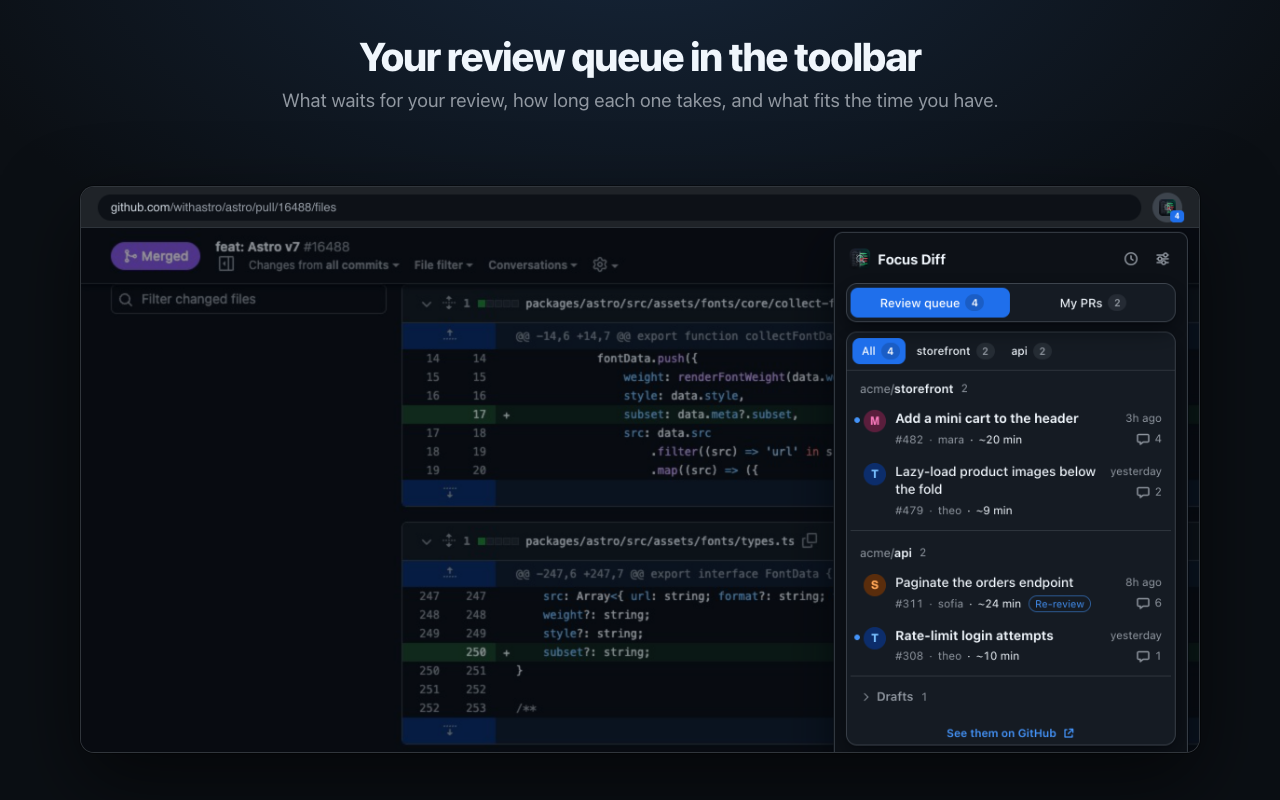
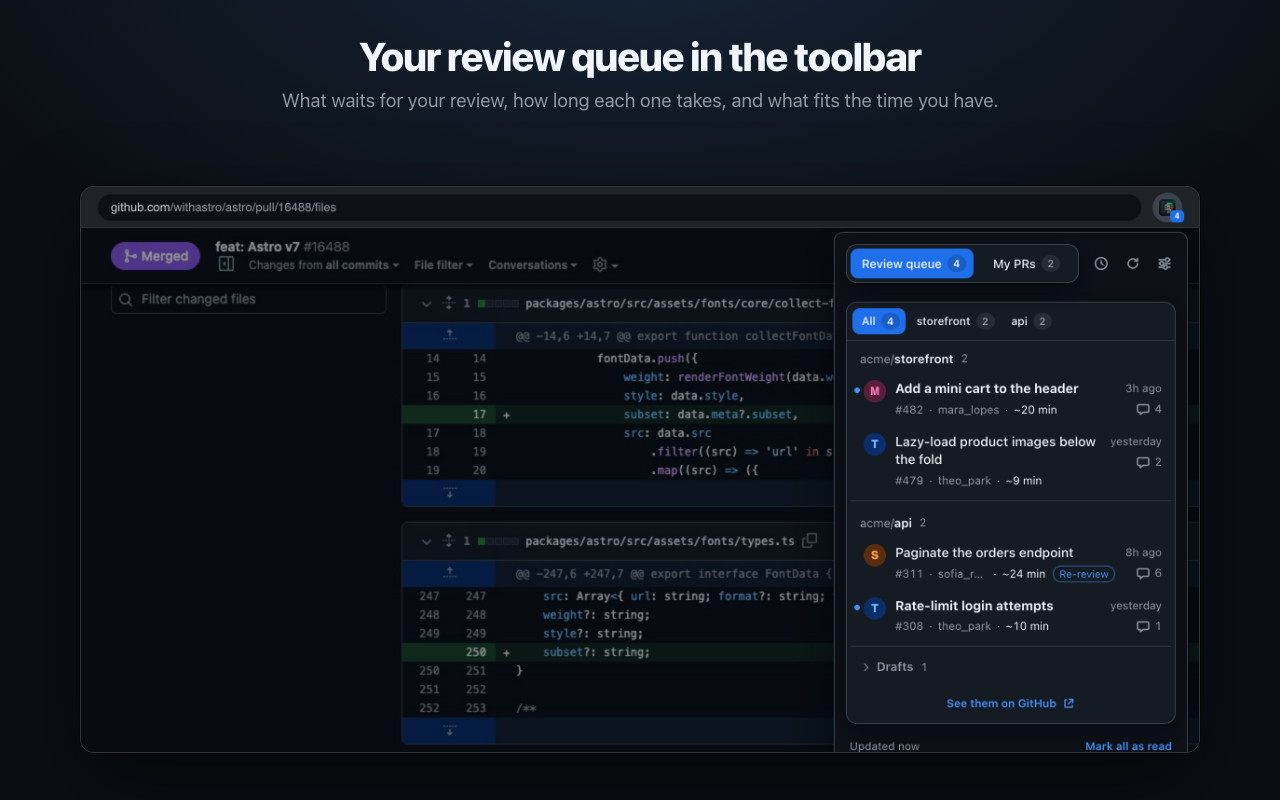
fix: made-up logins in the last samples and store images, and a not-affiliated note on the site
Claude-Session: https://claude.ai/code/session_01WZzWZtRV4wvyuzXxGyfwnu

Changed region(s): [[0.6562, 0.2812, 0.9062, 0.875], [0.6562, 0.875, 0.9062, 0.9375], [0.875, 0.3125, 0.9375, 0.3438]]

diff --git a/packages/site/src/extension.html b/packages/site/src/extension.html
@@ -94,7 +94,7 @@
           "name": "Does it work on private repositories?",
           "acceptedAnswer": {
             "@type": "Answer",
-            "text": "Yes. It works on any pull request page you can open on github.com, public or private, using only what that page shows you."
+            "text": "Yes. It works on any pull request you can open on github.com, public or private, with the session already in your browser."
           }
         },
         {
@@ -281,7 +281,7 @@
             </details>
             <details>
               <summary>Does it work on private repositories?</summary>
-              <p>Yes. It works on any pull request page you can open on github.com, public or private, using only what that page shows you.</p>
+              <p>Yes. It works on any pull request you can open on github.com, public or private, with the session already in your browser.</p>
             </details>
             <details>
               <summary>Which browsers does it support?</summary>
@@ -311,7 +311,7 @@
 
     <footer>
       <div class="wrap">
-        <span>Free and open source, under the MIT license. No tracking.</span>
+        <span>Free and open source, under the MIT license. No tracking. Not affiliated with or endorsed by GitHub.</span>
         <nav aria-label="More">
           <a href="./">Home</a>
           <a href="extension.html">Extension</a>

diff --git a/packages/desktop/src/utils/mock/mock.ts b/packages/desktop/src/utils/mock/mock.ts
@@ -131,7 +131,7 @@ const involved = [
         {
           author: people.bruno,
           createdAt: iso(12),
-          body: "@you does this match what you had in mind?",
+          body: "@you_reviewer does this match what you had in mind?",
           url: "https://github.com/acme/web/pull/2#c3",
         },
       ],
@@ -195,7 +195,7 @@ const config = {
       steps: [
         { kind: "request", reviewers: ["dana_reyes"] },
         { kind: "unrequestMe" },
-        { kind: "comment", body: "@dana could you take this one? Thanks!" },
+        { kind: "comment", body: "@dana_reyes could you take this one? Thanks!" },
       ],
     },
     {

diff --git a/packages/site/src/desktop.html b/packages/site/src/desktop.html
@@ -273,7 +273,7 @@
 
     <footer>
       <div class="wrap">
-        <span>Free and open source, under the MIT license. No tracking.</span>
+        <span>Free and open source, under the MIT license. No tracking. Not affiliated with or endorsed by GitHub.</span>
         <nav aria-label="More">
           <a href="./">Home</a>
           <a href="extension.html">Extension</a>

diff --git a/packages/site/src/index.html b/packages/site/src/index.html
@@ -221,7 +221,7 @@
 
     <footer>
       <div class="wrap">
-        <span>Free and open source, under the MIT license. No tracking.</span>
+        <span>Free and open source, under the MIT license. No tracking. Not affiliated with or endorsed by GitHub.</span>
         <nav aria-label="More">
           <a href="./">Home</a>
           <a href="extension.html">Extension</a>
